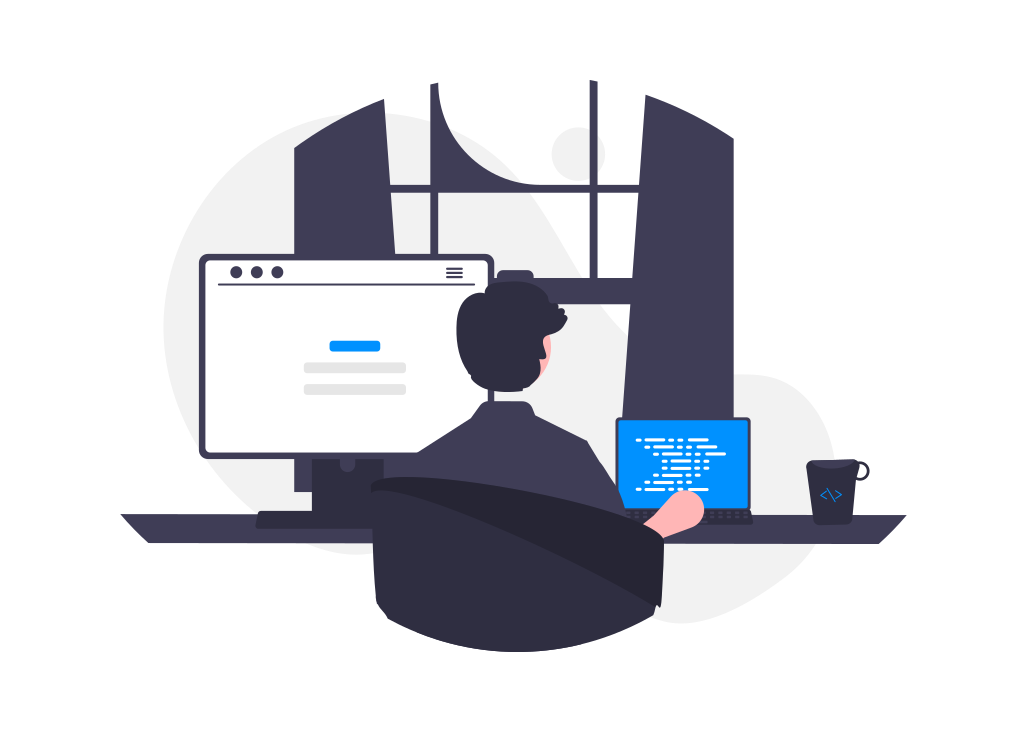
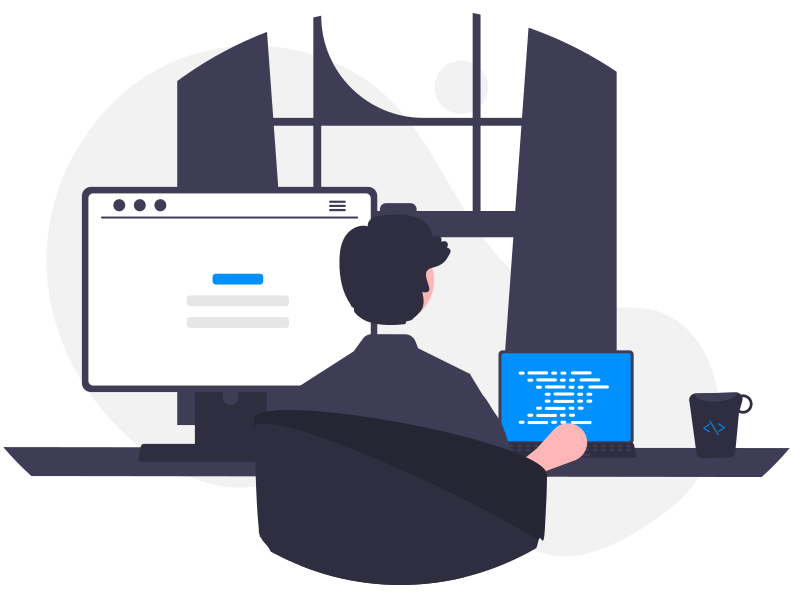
fixed flex displays

Changed region(s): [[0.0, 0.0304, 1.0, 1.0], [0.4242, 0.5777, 0.4545, 0.6081]]

diff --git a/src/components/About/About.css b/src/components/About/About.css
@@ -1,6 +1,6 @@
 #about {
   height: 100vh;
-  overflow-y: hidden;
+  overflow-x: hidden;
 }
 
 div {
@@ -20,44 +20,35 @@ div {
 }
 
 .about__content {
-  display: -webkit-box;
-  display: -webkit-flex;
-  display: -ms-flexbox;
   display: flex;
-  margin-right: -1.25rem;
-  /* margin-left: -10%; */
-  margin-top: 5%;
-  -webkit-box-align: center;
-  -webkit-align-items: center;
-  -ms-flex-align: center;
   align-items: center;
+  justify-content: center;
+  margin-top: 5%;
 }
 
 .about__img {
-  width: 100%;
-  padding-right: 0rem;
-  padding-left: 0rem;
-  margin-left: -50%;
+  display: flex;
+  justify-content: center;
+  place-items: center;
+  border-radius: 200px;
+  width: 600px
 }
 
 .team__img {
-  display: block;
-  width: auto;
   max-height: none;
-  max-width: 40%;
-  margin-left: auto;
-  border-radius: 20px;
+  max-width: 100%;
+  width: 500px;
   background-color: transparent;
 }
 
-img {
+/* img {
   max-width: 100%;
   vertical-align: middle;
   display: inline-block;
-}
+} */
 
 .about__desc {
-  width: 50%;
+  width: 600px;
   padding-right: 1.25rem;
   padding-left: 1.25rem;
 }
@@ -168,10 +159,12 @@ li {
   }
 
   .team__img {
-    display: block;
-    /* width: 130%; */
+    display: flex;
+    justify-content: center;
+    place-items: center;
+    width: 420px;
     padding-bottom: 20px;
-    margin-right: 0px;
+    /* margin-right: 0px; */
     /* margin-left: -35px; */
   }
 
@@ -203,8 +196,8 @@ li {
 
 @media screen and (max-width: 760px) {
   .team__img {
-    margin-left: 55%;
     padding-top: 50px;
+    width: 350px;
   }
 
   .about__desc {
@@ -248,13 +241,16 @@ li {
   }
 
   .about__img {
-    margin: 24px 18px;
+    /* margin: 24px 18px; */
     max-width: 430px;
     width: 120%;
   }
 
   .team__img {
-    margin-left: 30%;
+    display: flex;
+    justify-content: center;
+    place-items: center;
+    width: 200px;
   }
 
   .about__desc {
